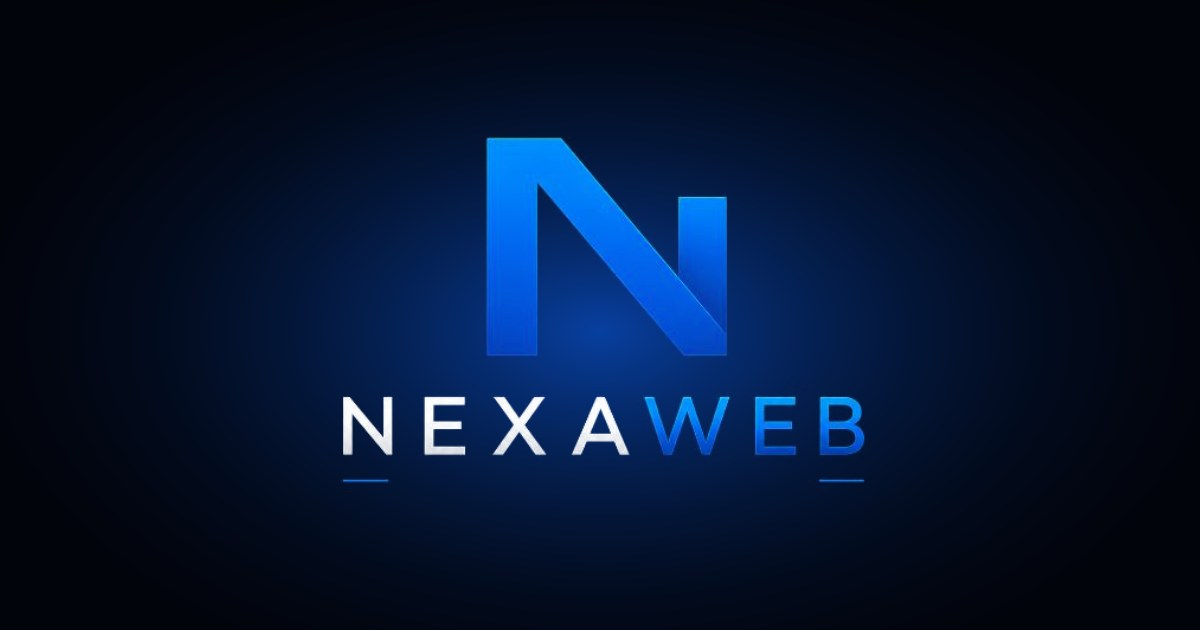
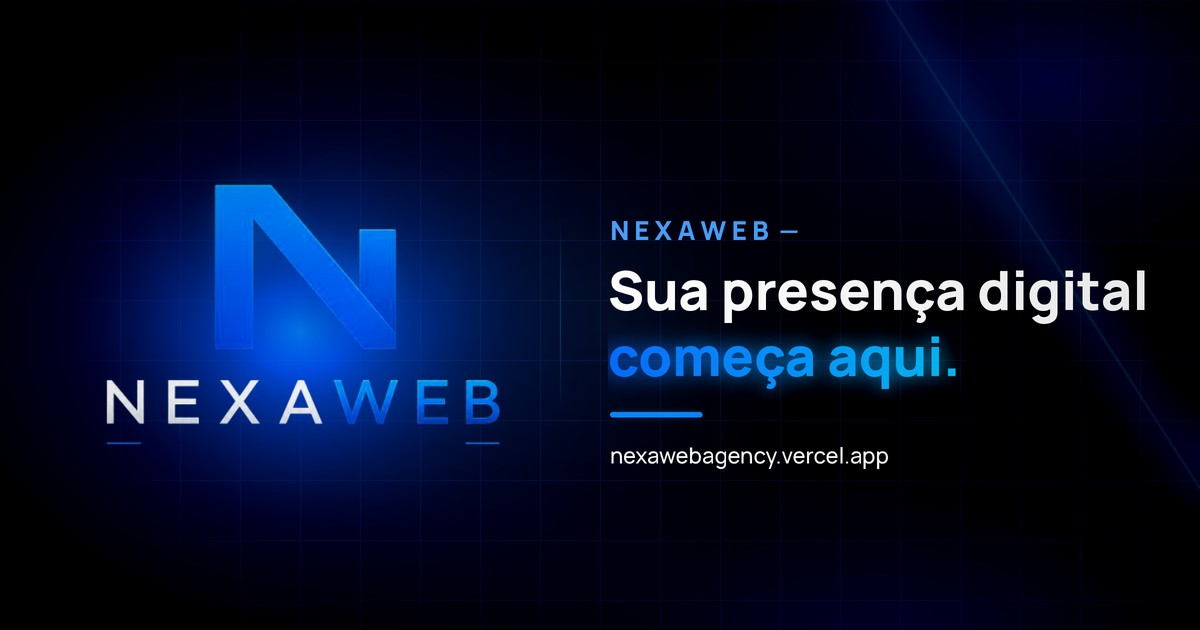
Open Graph completo: imagem de compartilhamento e metatags absolutas
- Nova public/og-image.jpg (1200x630) com logo oficial e o texto da marca
- og:url, canonical e og/twitter:image com URL absoluta (nexawebagency.vercel.app)
- Corrige troca de URL que só atingia a primeira ocorrência
- Favicon 192px, robots.txt e sitemap.xml com o domínio

Claude-Session: https://claude.ai/code/session_01NX3Sncrv5xHnuqzgSBwbeZ

diff --git a/index.html b/index.html
@@ -11,32 +11,41 @@
     <meta name="theme-color" content="#02040B" />
     <meta name="color-scheme" content="dark light" />
     <meta name="robots" content="index, follow" />
-    <!-- seo:domain -->
+    <link rel="canonical" href="__SITE_URL__/" />
 
+    <!-- Open Graph (WhatsApp, Facebook, Instagram, LinkedIn, Telegram) -->
     <meta property="og:type" content="website" />
+    <meta property="og:url" content="__SITE_URL__/" />
+    <meta property="og:site_name" content="NEXAWEB" />
     <meta property="og:locale" content="pt_BR" />
     <meta property="og:locale:alternate" content="en_US" />
-    <meta property="og:site_name" content="NEXAWEB" />
-    <meta property="og:title" content="NEXAWEB — Sites profissionais criados do zero" />
+    <meta property="og:title" content="NEXAWEB — Sua presença digital começa aqui." />
     <meta
       property="og:description"
-      content="Sites institucionais, landing pages e sistemas sob medida, com estratégia, identidade e atenção aos detalhes."
+      content="Sites institucionais, landing pages e sistemas sob medida, criados do zero com estratégia, identidade e atenção aos detalhes."
     />
-    <meta property="og:image" content="/og-image.jpg" />
+    <meta property="og:image" content="__SITE_URL__/og-image.jpg" />
+    <meta property="og:image:secure_url" content="__SITE_URL__/og-image.jpg" />
+    <meta property="og:image:type" content="image/jpeg" />
     <meta property="og:image:width" content="1200" />
     <meta property="og:image:height" content="630" />
-    <meta property="og:image:alt" content="Logotipo NEXAWEB" />
+    <meta property="og:image:alt" content="NEXAWEB — Sua presença digital começa aqui." />
+
+    <!-- Twitter / X -->
     <meta name="twitter:card" content="summary_large_image" />
-    <meta name="twitter:title" content="NEXAWEB — Sites profissionais criados do zero" />
+    <meta name="twitter:title" content="NEXAWEB — Sua presença digital começa aqui." />
     <meta
       name="twitter:description"
-      content="Sites institucionais, landing pages e sistemas sob medida, com estratégia, identidade e atenção aos detalhes."
+      content="Sites institucionais, landing pages e sistemas sob medida, criados do zero com estratégia, identidade e atenção aos detalhes."
     />
-    <meta name="twitter:image" content="/og-image.jpg" />
+    <meta name="twitter:image" content="__SITE_URL__/og-image.jpg" />
+    <meta name="twitter:image:alt" content="NEXAWEB — Sua presença digital começa aqui." />
 
+    <!-- Favicon NEXAWEB -->
     <link rel="icon" href="/favicon.ico" sizes="48x48" />
     <link rel="icon" type="image/png" href="/favicon-32.png" sizes="32x32" />
-    <link rel="apple-touch-icon" href="/apple-touch-icon.png" />
+    <link rel="icon" type="image/png" href="/icon-192.png" sizes="192x192" />
+    <link rel="apple-touch-icon" href="/apple-touch-icon.png" sizes="180x180" />
     <link rel="manifest" href="/site.webmanifest" />
 
     <script type="application/ld+json">
@@ -44,8 +53,10 @@
         "@context": "https://schema.org",
         "@type": "ProfessionalService",
         "name": "NEXAWEB",
+        "url": "__SITE_URL__/",
+        "logo": "__SITE_URL__/icon-512.png",
         "description": "Desenvolvimento de sites institucionais, landing pages e sistemas sob medida.",
-        "image": "/og-image.jpg",
+        "image": "__SITE_URL__/og-image.jpg",
         "serviceType": ["Desenvolvimento de sites", "Landing pages", "Sistemas personalizados"]
       }
     </script>

diff --git a/vite.config.ts b/vite.config.ts
@@ -2,9 +2,13 @@ import { defineConfig, loadEnv, type Plugin } from 'vite'
 import react from '@vitejs/plugin-react'
 import tailwindcss from '@tailwindcss/vite'
 
+/** Domínio público do site. Pode ser trocado no build com a variável SITE_URL (ex.: domínio próprio). */
+const DEFAULT_SITE_URL = 'https://nexawebagency.vercel.app'
+
 /**
- * Injeta as tags que dependem do domínio final (canonical, og:url, og:image absoluta)
- * e gera robots.txt / sitemap.xml. Sem SITE_URL, nada que dependa de domínio é inventado.
+ * SEO no HTML inicial (lido pelos robôs de WhatsApp, Facebook, LinkedIn etc., que não executam JavaScript):
+ * troca __SITE_URL__ pela URL absoluta em todas as metatags, pré-carrega a foto do hero
+ * e gera robots.txt e sitemap.xml.
  */
 function seo(siteUrl: string): Plugin {
   const url = siteUrl.replace(/\/+$/, '')
@@ -22,36 +26,23 @@ function seo(siteUrl: string): Plugin {
         const cut = find(/hero-portrait-(?!2x)[\w-]+\.webp$/)
         const cut2x = find(/hero-portrait-2x-[\w-]+\.webp$/)
         const tags: string[] = []
-        if (cut && cut2x)
+        if (cut && cut2x) {
           tags.push(
             `<link rel="preload" as="image" fetchpriority="high" media="(max-width: 767px)" href="${base}${cut}" imagesrcset="${base}${cut} 448w, ${base}${cut2x} 896w" imagesizes="(max-width: 480px) 76vw, 340px" />`,
-          )
-        if (cut && cut2x)
-          tags.push(
             `<link rel="preload" as="image" fetchpriority="high" media="(min-width: 768px)" href="${base}${cut}" imagesrcset="${base}${cut} 448w, ${base}${cut2x} 896w" imagesizes="70vh" />`,
           )
-        html = html.replace('<!-- seo:domain -->', `${tags.join('\n    ')}\n    <!-- seo:domain -->`)
+        }
+        html = html.replace('<link rel="canonical"', `${tags.join('\n    ')}\n    <link rel="canonical"`)
       }
-      if (!url) return html
-      return html
-        .replace('content="/og-image.jpg"', `content="${url}/og-image.jpg"`)
-        .replace(
-          '<!-- seo:domain -->',
-          `<link rel="canonical" href="${url}/" />\n    <meta property="og:url" content="${url}/" />`,
-        )
+      return html.replaceAll('__SITE_URL__', url)
     },
     generateBundle() {
-      const robots = ['User-agent: *', 'Allow: /', url ? `Sitemap: ${url}/sitemap.xml` : '']
-        .filter(Boolean)
-        .join('\n')
-      this.emitFile({ type: 'asset', fileName: 'robots.txt', source: robots + '\n' })
-      if (url) {
-        this.emitFile({
-          type: 'asset',
-          fileName: 'sitemap.xml',
-          source: `<?xml version="1.0" encoding="UTF-8"?>\n<urlset xmlns="http://www.sitemaps.org/schemas/sitemap/0.9">\n  <url><loc>${url}/</loc></url>\n</urlset>\n`,
-        })
-      }
+      this.emitFile({ type: 'asset', fileName: 'robots.txt', source: `User-agent: *\nAllow: /\nSitemap: ${url}/sitemap.xml\n` })
+      this.emitFile({
+        type: 'asset',
+        fileName: 'sitemap.xml',
+        source: `<?xml version="1.0" encoding="UTF-8"?>\n<urlset xmlns="http://www.sitemaps.org/schemas/sitemap/0.9">\n  <url><loc>${url}/</loc></url>\n</urlset>\n`,
+      })
     },
   }
 }
@@ -62,7 +53,7 @@ const singleFile = process.env.SINGLEFILE === '1'
 export default defineConfig(({ mode }) => {
   const env = loadEnv(mode, process.cwd(), '')
   return {
-    plugins: [react(), tailwindcss(), seo(env.SITE_URL ?? '')],
+    plugins: [react(), tailwindcss(), seo(env.SITE_URL || DEFAULT_SITE_URL)],
     build: {
       target: 'es2020',
       cssCodeSplit: false,

diff --git a/scripts/make-og-image.py b/scripts/make-og-image.py
@@ -1,0 +1,92 @@
+# Gera public/og-image.jpg (1200x630). Uso: python3 scripts/make-og-image.py <pasta-com-Manrope.ttf-e-logo> public/og-image.jpg
+import sys
+import numpy as np
+from PIL import Image, ImageDraw, ImageFilter, ImageFont
+
+S = sys.argv[1]; OUT = sys.argv[2]
+W, H, K = 1200, 630, 2           # renderiza em 2x e reduz (bordas mais limpas)
+w, h = W * K, H * K
+FONT = S + '/og/Manrope.ttf'
+
+def font(size, weight):
+    f = ImageFont.truetype(FONT, size * K); f.set_variation_by_axes([weight]); return f
+
+yy, xx = np.mgrid[0:h, 0:w].astype(np.float32)
+def radial(cx, cy, rx, ry):
+    return np.clip(1 - np.sqrt(((xx - cx * K) / (rx * K)) ** 2 + ((yy - cy * K) / (ry * K)) ** 2), 0, 1)
+
+# Fundo: azul-marinho quase preto com luzes azuis suaves
+base = np.zeros((h, w, 3), np.float32); base[:] = (2, 4, 11)
+for (cx, cy, rx, ry, col, pw) in [
+    (300, 330, 520, 420, (6, 40, 120), 1.6),     # luz atrás do logo
+    (300, 330, 260, 220, (8, 90, 230), 2.2),     # núcleo azul elétrico
+    (1050, 80, 520, 300, (4, 22, 70), 1.8),      # brilho no canto superior direito
+    (900, 640, 600, 220, (3, 18, 58), 1.6),      # base
+]:
+    g = radial(cx, cy, rx, ry) ** pw
+    base += g[..., None] * np.array(col, np.float32)
+img = Image.fromarray(np.clip(base, 0, 255).astype(np.uint8), 'RGB').convert('RGBA')
+
+# Grade tecnológica discreta, que some nas bordas
+grid = Image.new('RGBA', (w, h), (0, 0, 0, 0)); gd = ImageDraw.Draw(grid)
+for x in range(0, w, 60 * K): gd.line([(x, 0), (x, h)], fill=(60, 120, 255, 26), width=K)
+for y in range(0, h, 60 * K): gd.line([(0, y), (w, y)], fill=(60, 120, 255, 26), width=K)
+mask = (radial(820, 300, 760, 520) ** 0.9 * 255).astype(np.uint8)
+grid.putalpha(Image.fromarray(np.minimum(np.asarray(grid)[..., 3], mask)))
+img.alpha_composite(grid)
+
+# Feixe de luz diagonal (inspirado no traço do "N")
+beam = Image.new('RGBA', (w, h), (0, 0, 0, 0)); bd = ImageDraw.Draw(beam)
+bd.polygon([(820 * K, -40 * K), (900 * K, -40 * K), (1260 * K, 520 * K), (1180 * K, 520 * K)], fill=(17, 120, 255, 70))
+beam = beam.filter(ImageFilter.GaussianBlur(28 * K)); img.alpha_composite(beam)
+line = Image.new('RGBA', (w, h), (0, 0, 0, 0)); ld = ImageDraw.Draw(line)
+ld.line([(860 * K, -40 * K), (1220 * K, 520 * K)], fill=(120, 200, 255, 90), width=2 * K)
+line = line.filter(ImageFilter.GaussianBlur(1.2 * K)); img.alpha_composite(line)
+
+# Logo oficial (sem alterações), com brilho por trás
+logo = Image.open(S + '/crops/logo_unscreen.png').convert('RGBA')
+lw = 400 * K; lh = round(logo.height * lw / logo.width)
+logo = logo.resize((lw, lh), Image.LANCZOS)
+lx, ly = 300 * K - lw // 2, 318 * K - lh // 2
+glow = Image.new('RGBA', (w, h), (0, 0, 0, 0))
+tint = Image.new('RGBA', logo.size, (8, 122, 255, 0)); tint.putalpha(logo.getchannel('A').point(lambda v: int(v * 0.9)))
+glow.alpha_composite(tint, (lx, ly)); glow = glow.filter(ImageFilter.GaussianBlur(26 * K))
+img.alpha_composite(glow); img.alpha_composite(logo, (lx, ly))
+
+# Divisor vertical luminoso
+div = Image.new('RGBA', (w, h), (0, 0, 0, 0)); dd = ImageDraw.Draw(div)
+for i in range(200 * K):
+    y = 215 * K + i; a = int(200 * np.sin(np.pi * i / (200 * K)))
+    dd.point([(560 * K, y), (560 * K + 1, y)], fill=(60, 160, 255, a))
+img.alpha_composite(div.filter(ImageFilter.GaussianBlur(0.6 * K)))
+
+# Texto
+d = ImageDraw.Draw(img)
+X = 610 * K
+eyebrow = font(26, 800)
+d.text((X, 212 * K), 'N E X A W E B  —', font=eyebrow, fill=(77, 163, 255, 255))
+head = font(54, 800)
+d.text((X - 2 * K, 252 * K), 'Sua presença digital', font=head, fill=(255, 255, 255, 255))
+# "começa aqui." com degradê azul
+txt = 'começa aqui.'; bbox = d.textbbox((0, 0), txt, font=head)
+tw, th = bbox[2] - bbox[0] + 8 * K, bbox[3] + 10 * K
+tmask = Image.new('L', (tw, th), 0); ImageDraw.Draw(tmask).text((0, 0), txt, font=head, fill=255)
+grad = np.zeros((th, tw, 4), np.uint8)
+t = np.linspace(0, 1, tw)[None, :]
+grad[..., 0] = (10 + (17 - 10) * t); grad[..., 1] = (109 + (200 - 109) * t); grad[..., 2] = 255
+grad[..., 3] = np.asarray(tmask)
+gimg = Image.fromarray(grad, 'RGBA')
+tglow = gimg.copy().filter(ImageFilter.GaussianBlur(10 * K))
+img.alpha_composite(tglow, (X - 2 * K, 318 * K)); img.alpha_composite(gimg, (X - 2 * K, 318 * K))
+# barra de destaque e endereço
+bar = Image.new('RGBA', (w, h), (0, 0, 0, 0)); bdr = ImageDraw.Draw(bar)
+bdr.rounded_rectangle([X, 412 * K, X + 92 * K, 417 * K], radius=3 * K, fill=(17, 140, 255, 255))
+img.alpha_composite(bar.filter(ImageFilter.GaussianBlur(4 * K))); img.alpha_composite(bar)
+d.text((X, 440 * K), 'nexawebagency.vercel.app', font=font(22, 500), fill=(255, 255, 255, 150))
+
+# Vinheta suave nas bordas
+vig = (1 - radial(600, 315, 900, 560) ** 0.6) * 90
+arr = np.asarray(img).astype(np.float32); arr[..., :3] = np.clip(arr[..., :3] - vig[..., None] * 0.6, 0, 255)
+out = Image.fromarray(arr.astype(np.uint8), 'RGBA').convert('RGB').resize((W, H), Image.LANCZOS)
+out.save(OUT, 'JPEG', quality=90, optimize=True, progressive=True)
+print(out.size)

diff --git a/README.md b/README.md
@@ -20,7 +20,7 @@ npm run lint       # ESLint
 | --- | --- |
 | WhatsApp, e-mail e Instagram reais | `src/config/site.ts` |
 | Projetos reais (print, nome, ano, link) | `src/data/projects.ts` |
-| Domínio final (canonical, og:url, sitemap) | variável `SITE_URL` no build (veja `.env.example`) |
+| Domínio (Open Graph, canonical, sitemap) | padrão `https://nexawebagency.vercel.app`; troque com a variável `SITE_URL` |
 
 Nada disso foi inventado. Enquanto estiverem vazios:
 - **Solicitar orçamento** leva à seção de contato (com WhatsApp preenchido, abre o WhatsApp com mensagem pronta);
@@ -47,3 +47,10 @@ docs/referencias-aprovadas/   as 9 telas aprovadas usadas como direção de arte
 - **Logo:** extraído do arquivo original sobre preto, sem redesenho.
 - **Carteira, Terra, mão com o logo e nuvens:** recortados das telas aprovadas (`docs/referencias-aprovadas/`).
 - Os prints de Instagram de terceiros do guia **não** foram incluídos no projeto.
+
+## Prévia de compartilhamento (Open Graph)
+
+- Imagem: `public/og-image.jpg` (1200×630), gerada por `scripts/make-og-image.py`.
+- Metatags no `index.html` (HTML inicial, lido pelos robôs sem JavaScript). `__SITE_URL__` é trocado no build
+  pela URL absoluta do site.
+- Depois de publicar, teste em https://developers.facebook.com/tools/debug/ (botão "Scrape Again" limpa o cache).
